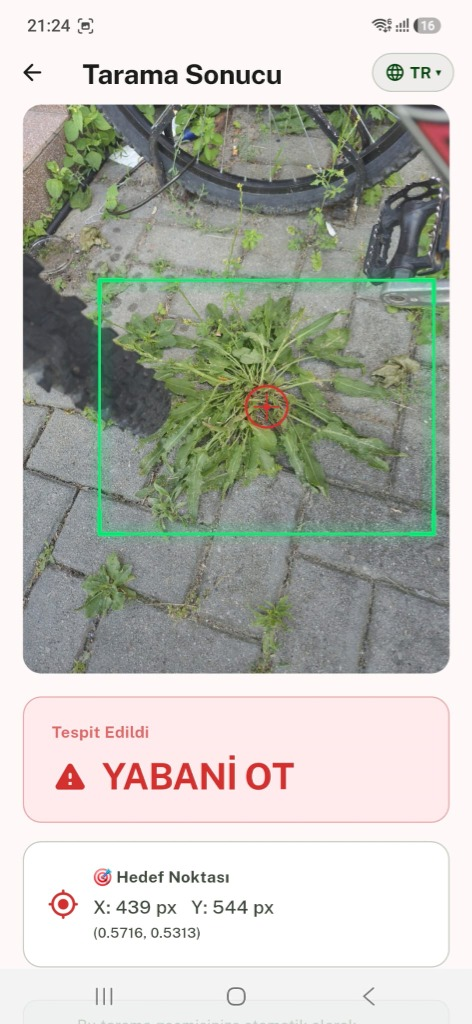
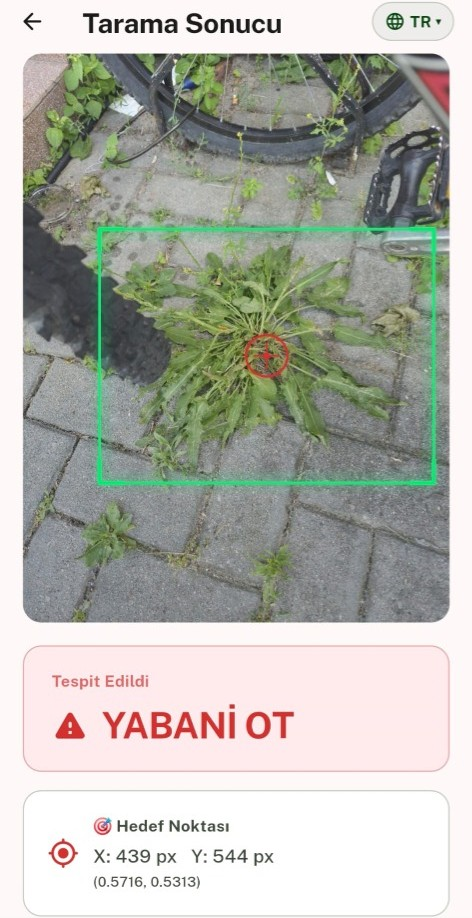
docs: update showcase architecture, screenshots and verified model metrics

diff --git a/README.md b/README.md
@@ -31,7 +31,7 @@ Geleneksel tarımsal mücadelede yabani otlar tüm tarlaya homojen ve aşırı m
 
 FloraScan, mobil kamera aracılığıyla tarladaki bitki örtüsünü anlık olarak analiz eder:
 
-1. **Sınıflandırma:** Bitkinin Kültür Bitkisi (Crop) mi yoksa Yabani Ot (Weed) mu olduğunu %97 doğrulukla sınıflandırır.
+1. **Sınıflandırma:** Bitkinin Kültür Bitkisi (Crop) mi yoksa Yabani Ot (Weed) mu olduğunu %96.91 doğrulukla sınıflandırır.
 2. **Morfolojik Segmentasyon:** Hedef bitki gövdesini çevreleyen dinamik sınırlayıcı kutuyu (Bounding Box) hesaplar.
 3. **Hassas Hedefleme:** Tespit edilen bitki yabani ot ise, bitkinin geometrik ağırlık merkezini çıkararak ilaçlama nozullarının kilitlenebileceği piksel ve normalize koordinatları ($X, Y, nX, nY$) üretir.
 4. **Ekin Koruma Modu:** Tespit edilen bitki bir kültür bitkisi ise, ilaçlama mekanizması bloke edilir (`target_point = null`) ve ekin koruma kalkanı devreye girer.
@@ -57,15 +57,17 @@ Saha koşulları ve doğrudan güneş ışığı altında optimum okunabilirlik 
       </td>
     </tr>
     <tr>
-      <td align="center"><em>Çekim ve galeri seçim arayüzü</em></td>
+      <td align="center"><em>Çekim, galeri seçimi, çift dilli (TR/EN) arayüz ve hesap/geçmiş erişimi</em></td>
       <td align="center"><em>Yeşil sınırlayıcı kutu, kırmızı nişangah ve milimetrik koordinat kartı</em></td>
     </tr>
   </table>
 </div>
 
-* **Görüntü Optimizasyonu:** Çekilen yüksek çözünürlüklü ham fotoğraflar (10+ MB), istemci tarafında $1024 \times 1024$ JPEG %85 formatına sıkıştırılarak hücresel veri tüketimi ve ağ gecikmesi en aza indirilir.
+* **Görüntü Optimizasyonu ve Gizlilik:** Çekilen yüksek çözünürlüklü ham fotoğraflar (10+ MB), istemci tarafında $1024 \times 1024$ JPEG %85 (~300 KB) formatına sıkıştırılır; sunucu tarafında EXIF konum/cihaz metaverileri temizlenerek WebP (~120-150 KB) ve 200x200 küçük resme (`thumb.webp`) dönüştürülür.
 * **Görsel Geri Bildirim:** Analiz edilen yabani ot üzerinde yeşil sınırlayıcı kutu ve kırmızı hedef artı işareti (crosshair) dinamik olarak çizilir.
 * **Telemetri ve Koordinat Kartı:** Piksel ($X: 439\text{ px}, Y: 544\text{ px}$) ve normalize koordinatlar ($0.5716, 0.5313$) ekranda kullanıcıya ve donanım arayüzüne sunulur.
+* **Çift Dilli Arayüz ve Esnek Ekran Uyumu:** Türkçe öncelikli anlık **TR/EN** dil değişimi (`flutter_localizations`), izin reddi/kimlik doğrulama hatalarının yerelleştirilmiş yönetimi ve farklı ekran oranlarına uyumlu taşmasız düzen sunulur.
+* **Kayıt Gerektirmeyen Kullanım ve Çevrimdışı Geçmiş:** İlk açılışta arka planda anonim oturum başlatılır; kullanıcı dilediğinde e-posta ile kalıcı hesaba geçip misafir taramalarını birleştirebilir veya geçmiş taramalarını internet kesintilerinde dahi yerel SQLite önbelleğinden görüntüleyebilir.
 
 ---
 
@@ -96,39 +98,43 @@ flowchart LR
 
 | Algoritma | Parametreler | Test Doğruluğu | Çıkarım Karakteristiği |
 | :--- | :--- | :--- | :--- |
-| **Random Forest (Seçilen)** | `n_estimators=200, max_depth=10` | **%97.00** | **En yüksek genelleme, mikrosaniyeler mertebesinde çıkarım süresi, aşırı öğrenmeye karşı direnç.** |
-| **Gradient Boosting (GBDT)** | `n_estimators=100, lr=0.1` | %95.20 | Yüksek doğruluk; sıralı ağaç yapısı nedeniyle daha uzun çıkarım süresi. |
-| **Destek Vektör Makineleri (SVM)** | `RBF Kernel, C=1.0` | %94.80 | Kararlı karar sınırları; yüksek boyutlu uzayda güvenilir ayrım. |
-| **Lojistik Regresyon** | `max_iter=1000` | %88.40 | Doğrusal sınır; karmaşık yaprak dokusu ve ışık değişimlerinde sınırlı başarım. |
+| **Random Forest (Seçilen)** | `n_estimators=200, max_depth=10` | **%96.91** | **En yüksek genelleme, mikrosaniyeler mertebesinde çıkarım süresi, aşırı öğrenmeye karşı direnç.** |
+| **Gradient Boosting (GBDT)** | `n_estimators=150, lr=0.1, max_depth=3` | %94.98 | Yüksek doğruluk; sıralı ağaç yapısı nedeniyle daha uzun çıkarım süresi. |
+| **Lojistik Regresyon** | `max_iter=1000` | %88.42 | Doğrusal sınır; karmaşık yaprak dokusu ve ışık değişimlerinde sınırlı başarım. |
+| **Destek Vektör Makineleri (SVM)** | `RBF Kernel, C=10, gamma='scale'` | %86.49 | Doğrusal olmayan karar sınırı; ölçeklenmemiş öznitelik uzayında daha düşük ayrım. |
 
-* **5-Katlı Çapraz Doğrulama (5-Fold Cross Validation):** %96.8 kararlı doğruluk.
+* **5-Katlı Çapraz Doğrulama (5-Fold Cross Validation):** %96.64 kararlı doğruluk (OOB tahmini: %97.21, Eğitim seti: %99.81).
 * **Model Dosya Boyutu:** Yalnızca 1.7 MB (`flora_model.joblib`), bulut ve uç cihazlarda anlık bellek yükleme imkanı.
 
 ---
 
 ## Uçtan Uca Sistem Mimarisi
 
-Sistem; mobil istemci, bulut API, görüntü işleme motoru, makine öğrenmesi çıkarım birimi ve ilişkisel veritabanından oluşan dağıtık bir yapı üzerinde çalışır:
+Sistem; mobil istemci, kimlik doğrulama katmanı, bulut API, görüntü işleme motoru, makine öğrenmesi çıkarım birimi, gizli nesne depolama ve ilişkisel veritabanından oluşan dağıtık bir yapı üzerinde çalışır:
 
 ```mermaid
 sequenceDiagram
     autonumber
     actor U as Kullanici / Ciftci
-    participant APP as Flutter Mobil Istemci
+    participant APP as Flutter Mobil Istemci (SQLite)
+    participant AUTH as Supabase Auth (JWT)
     participant API as FastAPI Cloud API (Render EU)
     participant CV as CV Motoru (OpenCV & Skimage)
     participant ML as ML Cikarim (Random Forest)
+    participant ST as Supabase Storage (Private)
     participant DB as Supabase PostgreSQL (RLS)
 
+    APP->>AUTH: Anonim veya Kayitli Oturum (JWT)
     U->>APP: Kamera ile Cek / Galeriden Sec
-    Note over APP: Gorsel Boyutlandirma ve Sikistirma (1024x1024)
-    APP->>API: POST /predict (Multipart/form-data via HTTPS)
+    Note over APP: Gorsel Boyutlandirma ve Sikistirma (1024x1024 JPEG)
+    APP->>API: POST /predict (Multipart + Bearer JWT, 50s Timeout)
+    API->>AUTH: JWT Dogrulama (user_id)
     API->>CV: extract_features_from_array()
     CV-->>API: 9 Boyutlu Oznitelik Vektoru
     API->>ML: predict_plant()
     ML-->>API: Sinif (crop/weed/unknown) ve Guven Skoru
     API->>CV: compute_bounding_box()
-    CV-->>API: Sınır Kutusu Koordinatlari (x, y, w, h)
+    CV-->>API: Sinir Kutusu Koordinatlari (x, y, w, h)
     
     alt Weed (Yabani Ot)
         Note over API: Hedefleme Noktasi Hesaplanir (target_x, target_y, target_nx, target_ny)
@@ -136,8 +142,9 @@ sequenceDiagram
         Note over API: Ekin Koruma Modu (target_point = null)
     end
     
-    API->>DB: save_scan() ile Kalici Veritabani Kaydi
-    API-->>APP: JSON Yaniti
+    API->>ST: EXIF Temizlenmis WebP + 200x200 Thumbnail Yukle
+    API->>DB: save_scan() ile Kullaniciya Ozel Veritabani Kaydi
+    API-->>APP: JSON Yaniti (Sinif, Skor, Kutu, Hedef Noktasi)
     APP->>U: Sinirlayici Kutu, Nisangah ve Hedef Kartini Goster
 ```
 
@@ -147,13 +154,16 @@ sequenceDiagram
 
 | Katman | Teknoloji / Kütüphane | Görev ve Sorumluluk |
 | :--- | :--- | :--- |
-| **Mobil Uygulama** | Flutter 3.x, Dart | Çapraz platform istemci, reaktif kullanıcı arayüzü |
+| **Mobil Uygulama** | Flutter 3.x, Dart | Çapraz platform istemci, responsive arayüz, TR/EN `l10n` desteği |
 | **Durum Yönetimi** | Provider | Durum yönetimi ve asenkron veri akışı |
+| **Yerel Önbellek** | `sqflite`, `cached_network_image` | Çevrimdışı tarama geçmişi ve küçük resim önbellekleme |
 | **Görüntü İşleme (İstemci)** | `flutter_image_compress` | Kamera çekimlerini ağ transferi öncesi optimize etme |
-| **Backend Framework** | FastAPI (Python 3.11+) | Asenkron RESTful API mimarisi ve mikroservis yönetimi |
-| **Bulut Dağıtımı** | Render PaaS (Frankfurt EU) | Konteynerize üretim sunucusu barındırma |
+| **Kimlik Doğrulama** | Supabase Auth (`supabase_flutter`, `PyJWT`) | Anonim misafir oturumu, hesap yükseltme/birleştirme ve JWT doğrulama |
+| **Backend Framework** | FastAPI (Python 3.11+) | Asenkron RESTful API mimarisi, EXIF temizliği, KVKK uyumlu hesap silme |
+| **Bulut Dağıtımı** | Render PaaS (Frankfurt EU) | Konteynerize üretim sunucusu ve 50 sn soğuk başlatma toleransı |
 | **Sağlık İzleme** | UptimeRobot | 5 dakikalık periyotlarla HTTP HEAD denetimi (Soğuk Başlatma Önleme) |
-| **Veritabanı** | Supabase (PostgreSQL 15) | Kalıcı tarama telemetrisi, IPv4 Connection Pooler, RLS güvenliği |
+| **Görsel Depolama** | Supabase Storage (Private Bucket) | WebP tam görsel/thumbnail saklama ve 1 saatlik `signed URL` üretimi |
+| **Veritabanı** | Supabase (PostgreSQL 15) | Kullanıcıya izole tarama telemetrisi, Supavisor IPv4 Pooler, RLS güvenliği |
 | **Bilgisayarlı Görü** | `opencv-python-headless`, `scikit-image` | Renk dönüşümleri, morfolojik filtreleme, GLCM, HOG analizi |
 | **Makine Öğrenmesi** | `scikit-learn`, `joblib`, `numpy` | Random Forest sınıflandırma ve tensör işlemleri |
 
